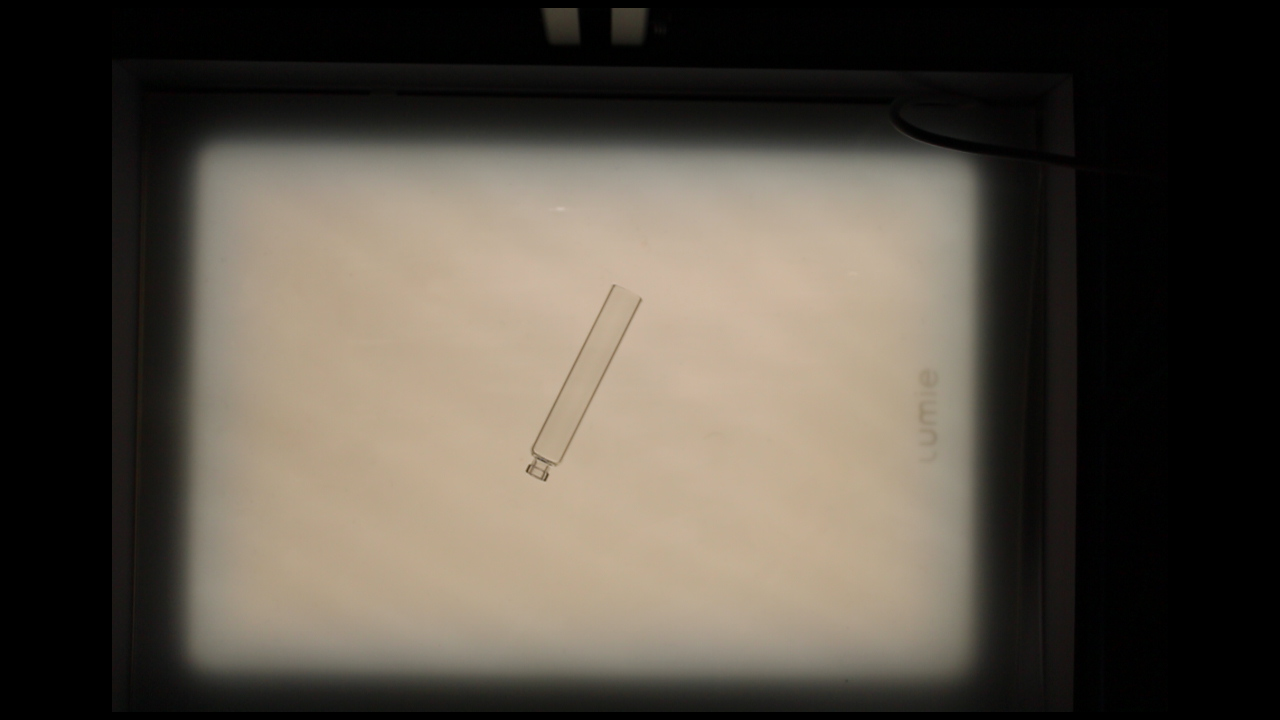
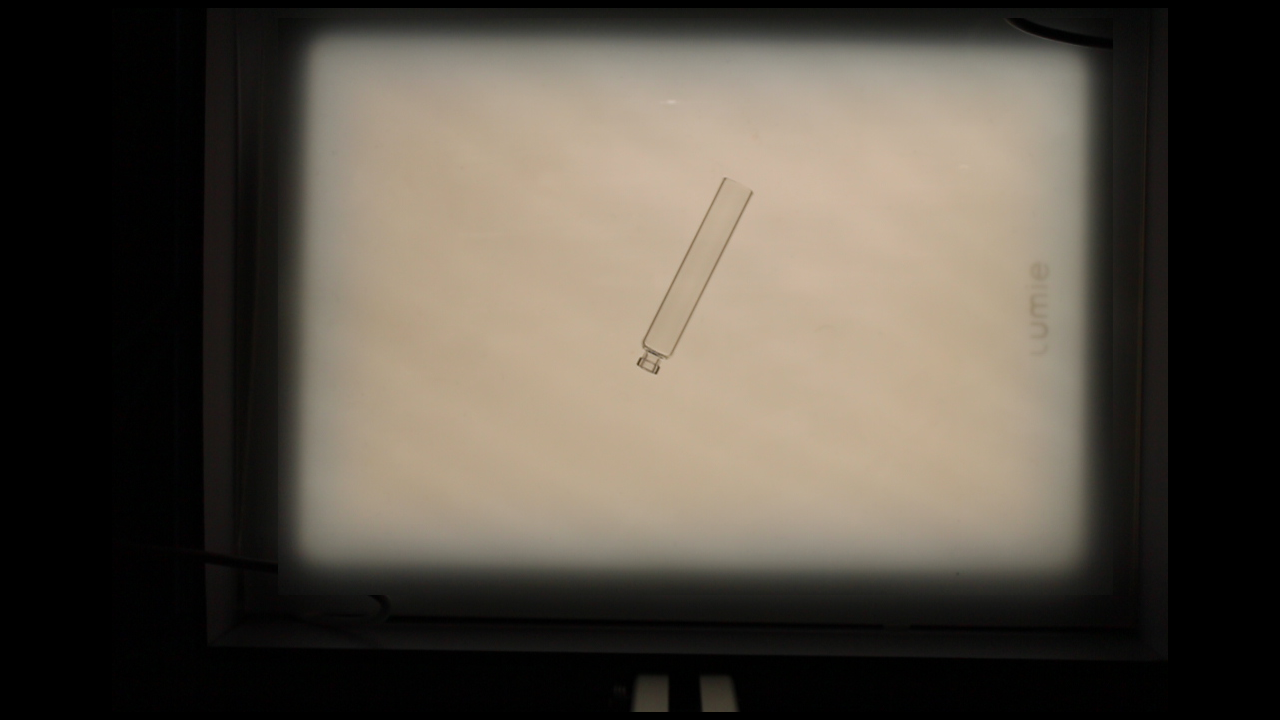
Added orientation, offsets to be fixed

diff --git a/GlassSegmentV1/GlassSegmentV1.py b/GlassSegmentV1/GlassSegmentV1.py
@@ -15,9 +15,13 @@ angleTolerance = 0.3
 
 def templatematch(img, template, houghLocation, h_steps = 10, w_steps = 10):
     # * line-pair = |slope1 = a rad | x1start | y1start | x1end | y1end | slope2 = b rad | x2start | y2start | x2end | y2end
-    pointsx = np.array([houghLocation[1], houghLocation[3], houghLocation[6], houghLocation[8]])
-    pointsy = np.array([houghLocation[2], houghLocation[4], houghLocation[7], houghLocation[9]])
-    slopes = np.array([houghLocation[0], houghLocation[5]])
+    if houghLocation.size== 0:
+        print("One or no lines found!")
+        exit()
+        
+    pointsx = np.array([houghLocation[1], houghLocation[3], houghLocation[7], houghLocation[9]])
+    pointsy = np.array([houghLocation[2], houghLocation[4], houghLocation[8], houghLocation[10]])
+    slopes = np.array([houghLocation[0], houghLocation[6]])
     
     slope_offset = math.degrees(math.atan(np.average(slopes)))
     # Convert to positive slope angle
@@ -49,32 +53,63 @@ def templatematch(img, template, houghLocation, h_steps = 10, w_steps = 10):
             if matches >= maxval:
                 maxval = matches
                 max_idx = np.array([h, w])
-            rotatingim = np.copy(img)
-            rotatingim[h : h + template_rot.shape[0], w : w + template_rot.shape[1]] = template_rot
-            cv2.imshow('Rotating progress', rotatingim)
-            cv2.waitKey(10)
+            #rotatingim = np.copy(img)
+            #rotatingim[h : h + template_rot.shape[0], w : w + template_rot.shape[1]] = template_rot
+            #cv2.imshow('Rotating progress', rotatingim)
+            #cv2.waitKey(10)
 
-    UpDown = 0 # 1 for up, 0 for down
+    startPoint = np.argmax(pointsx + pointsy)
+    template_rot = imutils.rotate_bound(template_rot, 180) # Rotate template by 180 deg
+    
+    pointsy += int(template_rot.shape[0]/4)
+    pointsx -= int(template_rot.shape[1]/2)
+    for h in np.arange(int(pointsy[startPoint]) + int(h_steps/2), int(pointsy[startPoint]) - int(h_steps/2), -1):
+        for w in np.arange(int(pointsx[startPoint]) + int(w_steps/2), int(pointsx[startPoint]) - int(w_steps/2), -1):
+            matches = np.logical_and(img[h : h + template_rot.shape[0], w : w + template_rot.shape[1]], template_rot)
+            matches = np.count_nonzero(matches)
+            
+            if matches >= maxval:
+                UpDown = 0 # 1 for up, 0 for down
+                maxval = matches
+                max_idx = np.array([h, w])
+            #rotatingim = np.copy(img)
+            #rotatingim[h : h + template_rot.shape[0], w : w + template_rot.shape[1]] = template_rot
+            #cv2.imshow('Rotating progress', rotatingim)
+            #cv2.waitKey(30)
 
     max_h = int(max_idx[0])
     max_w = int(max_idx[1])
 
+
+    # * OVERLAY STUFF***************************************
     overlay = cv2.imread('VialOutline.png', 0)
-    
-    detection = imutils.rotate_bound(overlay, slope_offset)
-    #max_h -= int(template_rot.shape[0] / 4)
-    #max_w += int(template_rot.shape[1] / 4)
     final = np.copy(img)
-    overlayStartH, overlayStartW = shiftIdx(detection)
     templateStartH, templateStartW = shiftIdx(template_rot)
-    adjustH = int(-templateStartH - overlayStartH)
-    adjustW = int(templateStartW - overlayStartW)
+    
     # * To overlay entire vial use code below
-    final[max_h + adjustH : max_h + detection.shape[0] + adjustH, 
-          max_w + adjustW : max_w + detection.shape[1] + adjustW] += detection
     # * To overlay template use code below
-    final[max_h : max_h + template_rot.shape[0],
-          max_w : max_w + template_rot.shape[1]] += template_rot
+    if UpDown == 1:
+        template_rot = imutils.rotate_bound(template_rot, 180)
+        detection = imutils.rotate_bound(overlay, slope_offset)
+        final[max_h : max_h + template_rot.shape[0],
+        max_w : max_w + template_rot.shape[1]] += template_rot
+        overlayStartH, overlayStartW = shiftIdx(detection)
+        adjustH = int(-templateStartH - overlayStartH)
+        adjustW = int(templateStartW - overlayStartW)
+        final[max_h + adjustH : max_h + detection.shape[0] + adjustH, 
+            max_w + adjustW : max_w + detection.shape[1] + adjustW] += detection
+    else:
+        detection = imutils.rotate_bound(overlay, slope_offset + 180)
+        final[max_h : max_h + template_rot.shape[0],
+        max_w : max_w + template_rot.shape[1]] += template_rot
+        overlayStartH, overlayStartW = shiftIdx(detection)
+        adjustH = int(templateStartH - overlayStartH)
+        adjustW = int(templateStartW - overlayStartW)
+        final[max_h + template_rot.shape[0] : max_h + template_rot.shape[0] - detection.shape[0], 
+            max_w + template_rot.shape[1] : max_w + template_rot.shape[1] - detection.shape[1]] += detection
+    
+    
+    
     return final
 
 def shiftIdx(array):
@@ -111,7 +146,7 @@ cv2.destroyAllWindows()
 # * Threshold @ 30
 start_time = time.time()
 
-img = cv2.imread('opencv_frame_0.png')
+img = cv2.imread('opencv_frame_0R.png')
 template = cv2.imread('vialTop.png', 0) # * Load template
 
 img_cropped = img[60:60+505, 325:325+740]
@@ -126,8 +161,8 @@ img_edges = img_as_ubyte(img_edges)
 img_binary = cv2.threshold(img_edges, 30, maxval = 255, type = cv2.THRESH_OTSU)
 img_binary = img_binary[1]
 #upscaled = prep.ResizeToFit(img_binary, H = 720, W = 1080)
-#cv2.imshow('Preprocessing', upscaled)
-
+#cv2.imshow('Preprocessing', img_binary)
+#cv2.waitKey(0)
 edges_hough = ls.HoughLinesSearch(img_binary)
 #print("--- %s seconds ---" % (time.time()-start_time))
 

diff --git a/GlassSegmentV1/LineSearchLib.py b/GlassSegmentV1/LineSearchLib.py
@@ -59,7 +59,7 @@ def LinesGrouping(sortedLines):
 
 def LineMerge(glassLines):
     # * function that merge the lines of a side to only one line
-    lineMerged = np.zeros([800,5])
+    lineMerged = np.zeros([800,6])
     k = 0
     if len(glassLines) == 2: # check if there exist only 2 lines
         a = np.array(abs(glassLines[0:2,1] - glassLines[0:2, 3]))
@@ -165,7 +165,7 @@ def LineMerge(glassLines):
                     
                     lineMerged[k,0] = slope.slope
                     lineMerged[k,1:5] = coordinates
-                    #lineMerged[k,5] = c
+                    lineMerged[k,5] = c
                     k+=1
     return lineMerged[~np.all(lineMerged == 0, axis=1)]
 
@@ -203,8 +203,8 @@ def HoughLinesSearch(img, houghLength=40, houghDist=10):
     else:
         print("No lines found")
     #return houghImage
-    cv2.imshow('Lines', houghImage)
-    cv2.waitKey(10)
+    #cv2.imshow('Lines', houghImage)
+    #cv2.waitKey(0)
     return glassSides
 
 def HoughLinesSearchSkimage(img):
